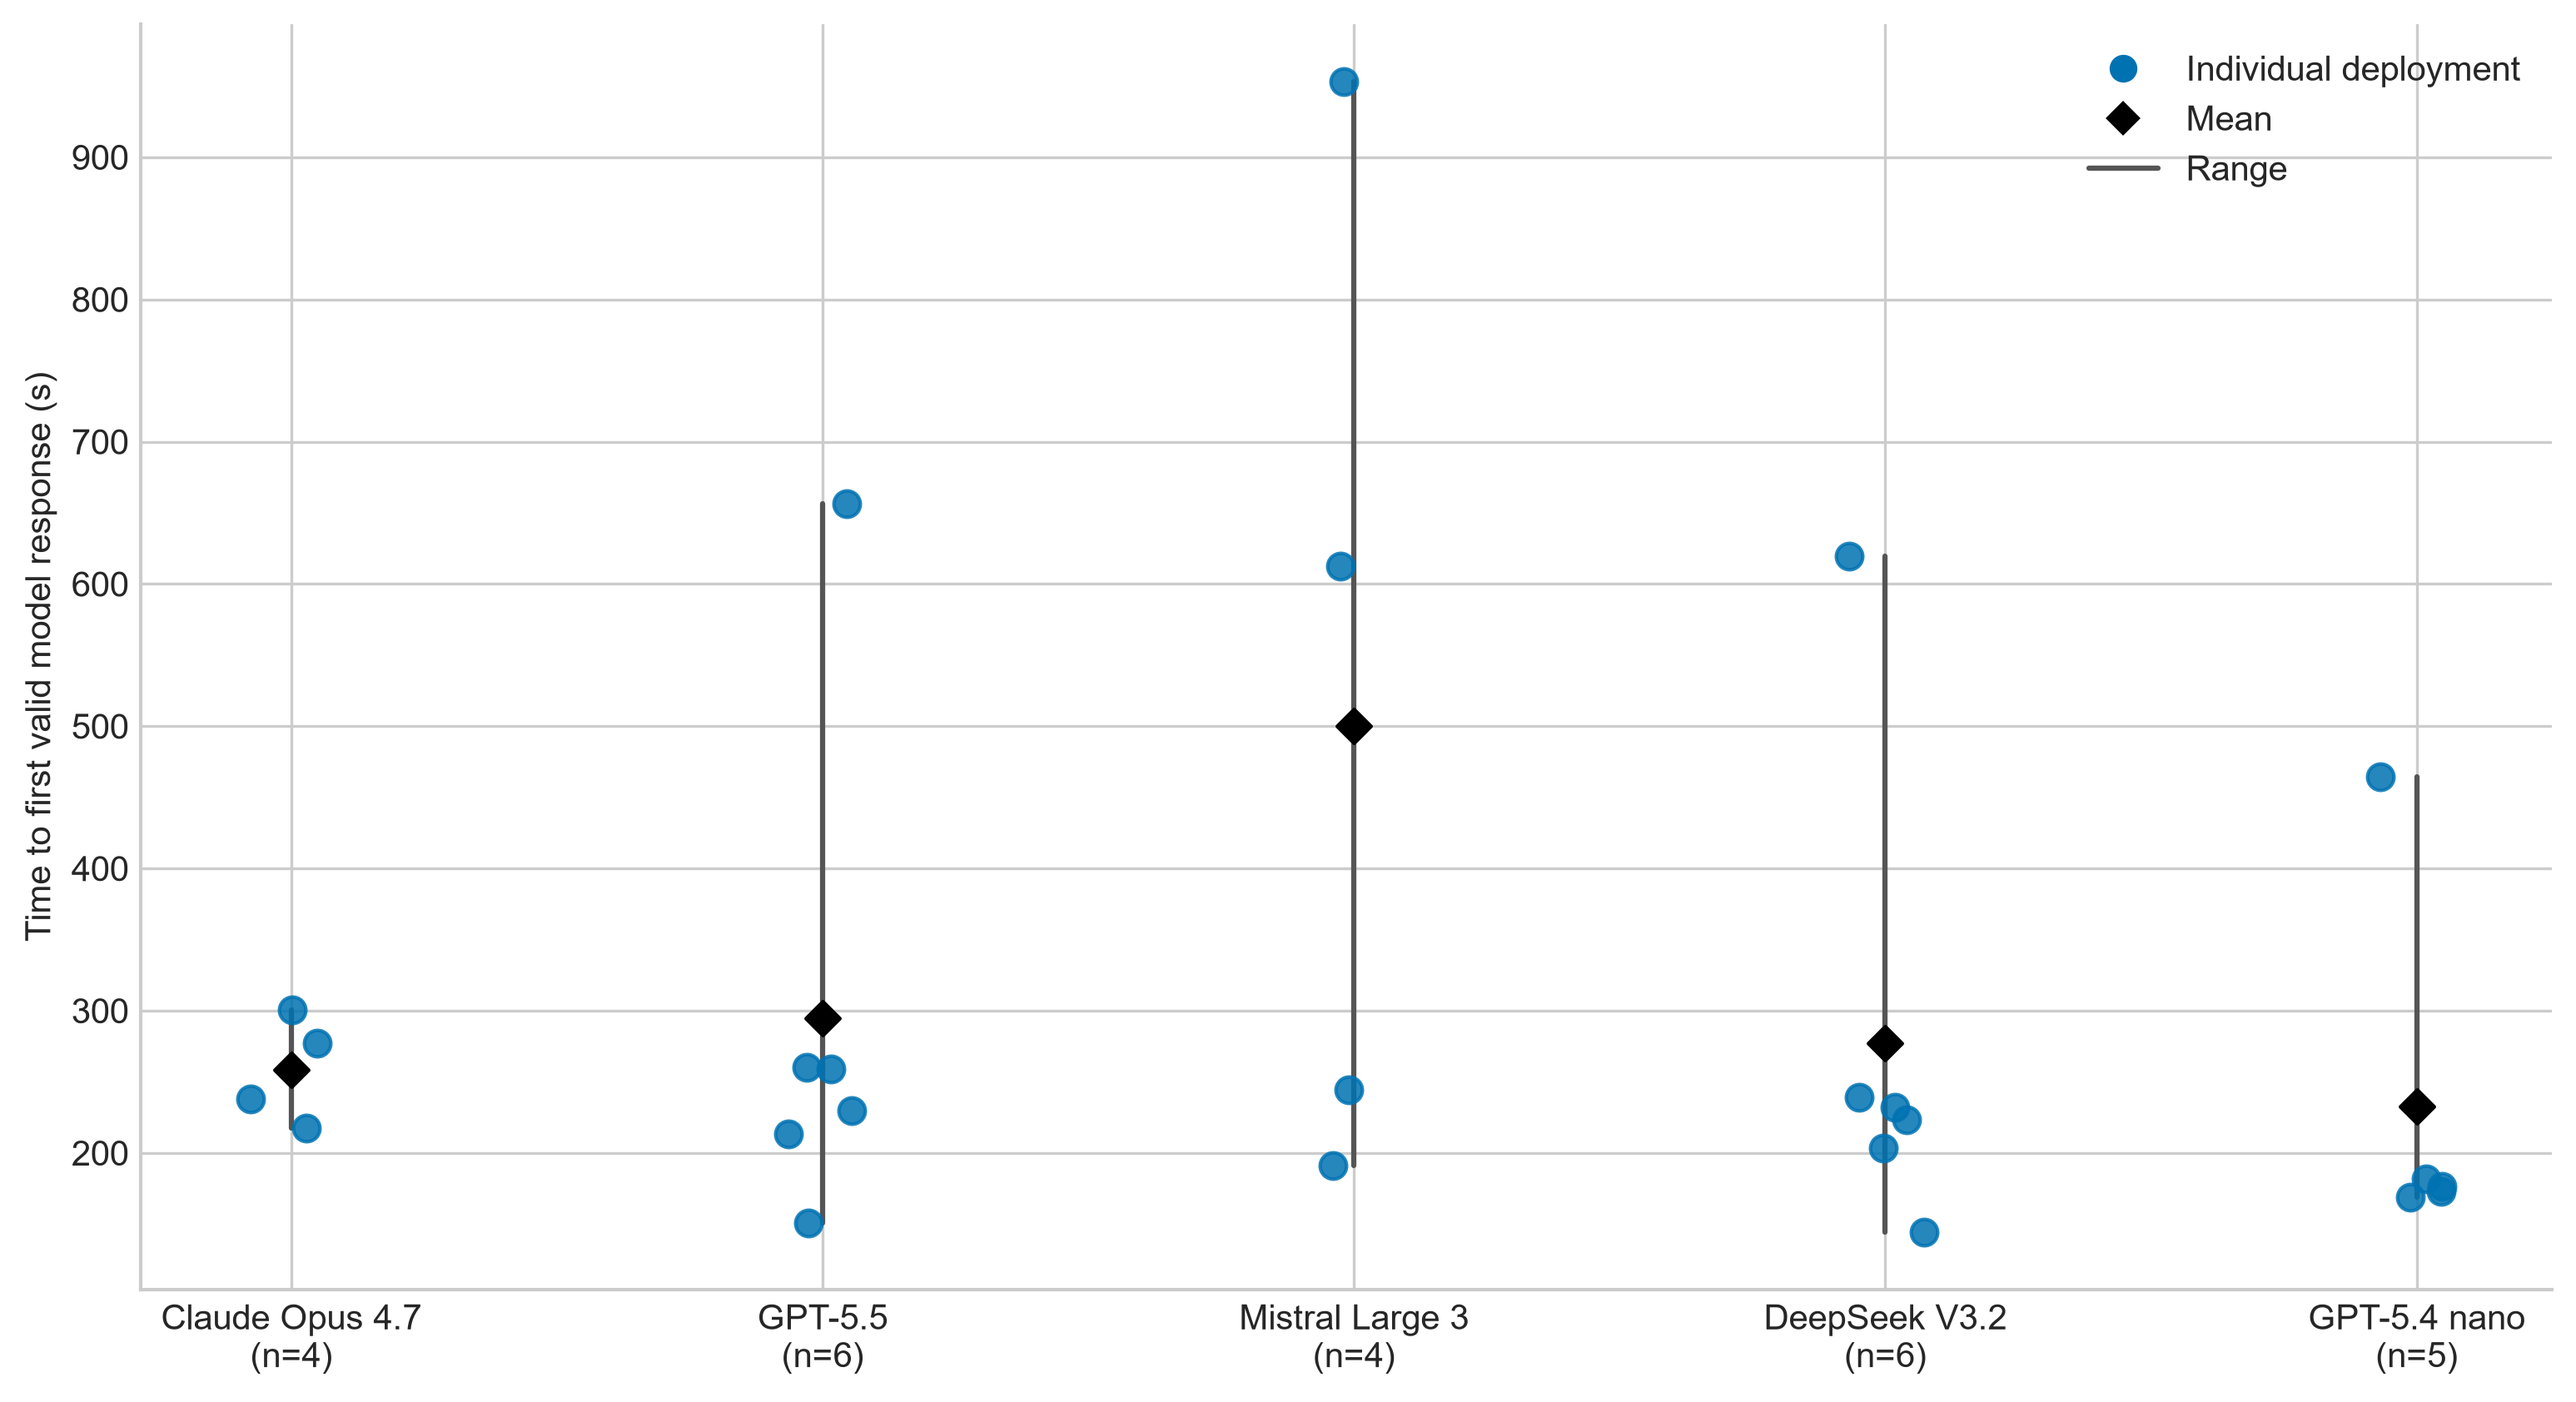
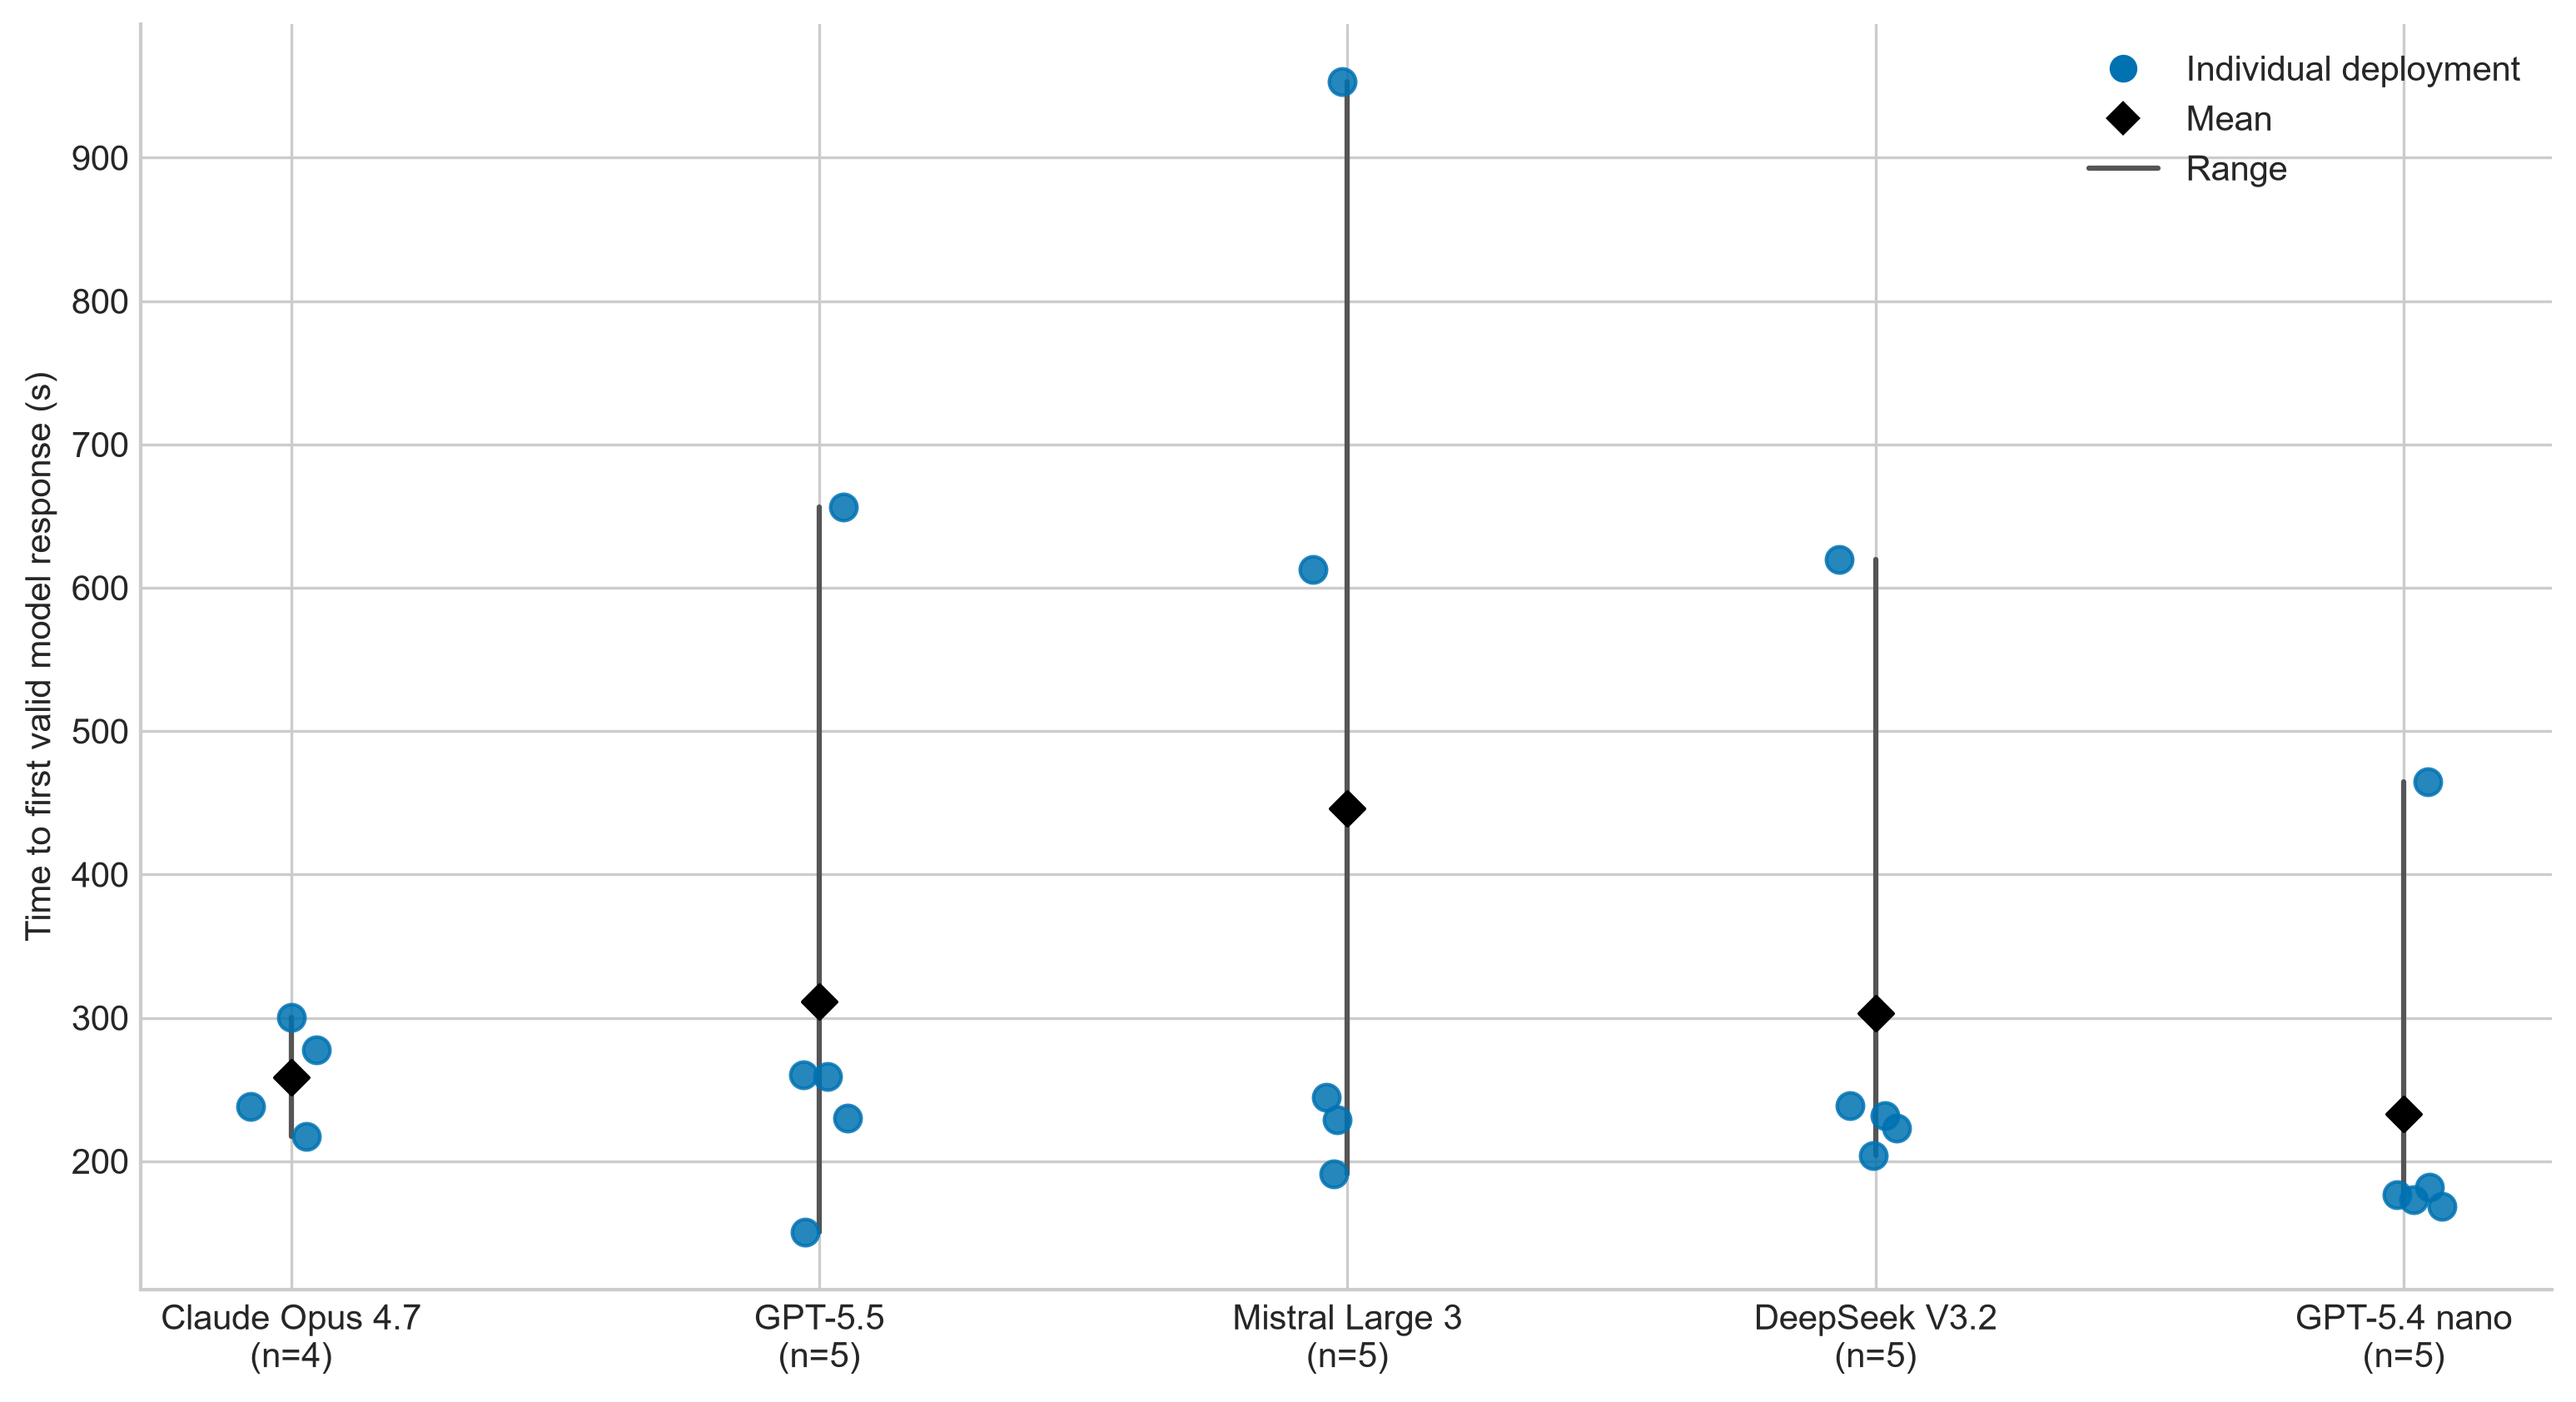
Use first completed measurements per model

diff --git a/deployment-benchmark-results/final/report.md b/deployment-benchmark-results/final/report.md
@@ -1,19 +1,17 @@
 # Deployment-to-model-response time
 
-The complete IaC deployment reached its first valid model response within minutes rather than days. Across 25 completed deployments, the median was 231.9 s and the range was 144.5–953.1 s. Model-specific dispersion differed, as shown below.
+The complete IaC deployment reached its first valid model response within minutes rather than days. Across 24 completed deployments, the median was 234.9 s and the range was 150.7–953.1 s. Model-specific dispersion differed, as shown below.
 
 | Model | n | Mean (s) | Sample SD (s) | Median (s) | Range (s) |
 |---|---:|---:|---:|---:|---:|
 | Claude Opus 4.7 | 4 | 258.3 | 37.6 | 257.6 | 217.3–300.5 |
-| GPT-5.5 | 6 | 294.8 | 181.7 | 244.4 | 150.7–656.6 |
-| Mistral Large 3 | 4 | 500.3 | 355.3 | 428.5 | 191.0–953.1 |
-| DeepSeek V3.2 | 6 | 277.0 | 171.3 | 227.5 | 144.5–619.6 |
+| GPT-5.5 | 5 | 311.2 | 198.1 | 258.8 | 150.7–656.6 |
+| Mistral Large 3 | 5 | 445.9 | 330.8 | 244.4 | 191.0–953.1 |
+| DeepSeek V3.2 | 5 | 303.5 | 177.2 | 231.9 | 203.6–619.6 |
 | GPT-5.4 nano | 5 | 232.9 | 129.6 | 176.4 | 168.7–464.6 |
 
 ![Deployment time by model](deployment-time-by-model.png)
 
 **Figure.** Time from submission of the commit-pinned ARM template to the first valid model response. Points show individual deployments, diamonds show arithmetic means, and vertical lines show ranges.
 
-Measurements without a returned result were repeated; only completed deployments were included in the descriptive timing summary.
-
-The 25 values are the chronologically first successful measurements across the two original benchmark runs. Both runs used the same region, model capacity, probe, endpoint contract, ARM template hash, and application package hash.
+The chronologically first five completed measurements per model were used; four completed measurements were available for Claude Opus 4.7. No value was imputed.

diff --git a/README.md b/README.md
@@ -119,7 +119,7 @@ For a protocol-compliant run, use a clean, pushed checkout; retain the prespecif
 
 The experiment quantifies automated deployment-to-model-response time after the equivalent of the portal's final **Create** action. It does not measure portal form entry or establish usability for technically inexperienced clinicians; that requires a separate user study.
 
-The [final descriptive results](deployment-benchmark-results/final/report.md) comprise 25 completed deployments. The median time to the first valid model response was 231.9 seconds (range 144.5-953.1 seconds), with differing dispersion across model configurations. Measurements without a returned result were repeated.
+The [final descriptive results](deployment-benchmark-results/final/report.md) comprise 24 completed deployments. The median time to the first valid model response was 234.9 seconds (range 150.7-953.1 seconds), with differing dispersion across model configurations.
 
 ## Research & evaluation
 This repository is the **deployable tool** only. The study's evaluation pipeline and PHI-free aggregate metrics are maintained separately and are available from the authors on reasonable request (see the paper). No patient data is included here.
